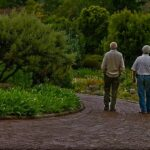
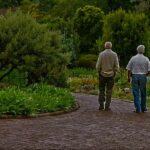
automatic push @ Sat May  8 00:30:02 UTC 2021

diff --git a/wp-content/uploads/elementor/css/post-2557.css b/wp-content/uploads/elementor/css/post-2557.css
@@ -1,1 +1,1 @@
-.elementor-2557 .elementor-element.elementor-element-a0b9288{text-align:center;}.elementor-2557 .elementor-element.elementor-element-a0b9288 .elementor-heading-title{color:#434343;font-family:"Roboto", Sans-serif;font-size:2.3rem;font-weight:600;}.elementor-2557 .elementor-element.elementor-element-5d45582 .elementor-spacer-inner{height:10px;}.elementor-2557 .elementor-element.elementor-element-51a4e14 > .elementor-container{min-height:450px;}.elementor-2557 .elementor-element.elementor-element-51a4e14:not(.elementor-motion-effects-element-type-background), .elementor-2557 .elementor-element.elementor-element-51a4e14 > .elementor-motion-effects-container > .elementor-motion-effects-layer{background-image:url("https://www.agedassist.tk/wp-content/uploads/2021/05/pexels-marcus-aurelius-6787218-1-scaled.jpg");background-position:0px 27px;background-repeat:no-repeat;background-size:cover;}.elementor-2557 .elementor-element.elementor-element-51a4e14 > .elementor-background-overlay{opacity:0.1;transition:background 0.3s, border-radius 0.3s, opacity 0.3s;}.elementor-2557 .elementor-element.elementor-element-51a4e14{transition:background 0.3s, border 0.3s, border-radius 0.3s, box-shadow 0.3s;}.elementor-2557 .elementor-element.elementor-element-ea847a7.elementor-column > .elementor-widget-wrap{justify-content:center;}.elementor-2557 .elementor-element.elementor-element-d035d52 .elementor-text-editor{text-align:left;}.elementor-2557 .elementor-element.elementor-element-d035d52{color:#FFFFFF;font-family:"Roboto", Sans-serif;font-size:1.4rem;font-weight:900;letter-spacing:0px;}@media(min-width:1025px){.elementor-2557 .elementor-element.elementor-element-51a4e14:not(.elementor-motion-effects-element-type-background), .elementor-2557 .elementor-element.elementor-element-51a4e14 > .elementor-motion-effects-container > .elementor-motion-effects-layer{background-attachment:fixed;}}@media(max-width:1024px){.elementor-2557 .elementor-element.elementor-element-51a4e14:not(.elementor-motion-effects-element-type-background), .elementor-2557 .elementor-element.elementor-element-51a4e14 > .elementor-motion-effects-container > .elementor-motion-effects-layer{background-position:0px 0px;}}@media(max-width:767px){.elementor-2557 .elementor-element.elementor-element-51a4e14:not(.elementor-motion-effects-element-type-background), .elementor-2557 .elementor-element.elementor-element-51a4e14 > .elementor-motion-effects-container > .elementor-motion-effects-layer{background-position:-538px 0px;}}
+.elementor-2557 .elementor-element.elementor-element-a0b9288{text-align:center;}.elementor-2557 .elementor-element.elementor-element-a0b9288 .elementor-heading-title{color:#434343;font-family:"Roboto", Sans-serif;font-size:2.3rem;font-weight:600;}.elementor-2557 .elementor-element.elementor-element-5d45582 .elementor-spacer-inner{height:10px;}.elementor-2557 .elementor-element.elementor-element-51a4e14 > .elementor-container{min-height:450px;}.elementor-2557 .elementor-element.elementor-element-51a4e14:not(.elementor-motion-effects-element-type-background), .elementor-2557 .elementor-element.elementor-element-51a4e14 > .elementor-motion-effects-container > .elementor-motion-effects-layer{background-image:url("https://www.agedassist.tk/wp-content/uploads/2021/05/pexels-marcus-aurelius-6787218-1-scaled.jpg");background-position:0px 27px;background-repeat:no-repeat;background-size:cover;}.elementor-2557 .elementor-element.elementor-element-51a4e14 > .elementor-background-overlay{opacity:0.1;transition:background 0.3s, border-radius 0.3s, opacity 0.3s;}.elementor-2557 .elementor-element.elementor-element-51a4e14{transition:background 0.3s, border 0.3s, border-radius 0.3s, box-shadow 0.3s;}.elementor-2557 .elementor-element.elementor-element-ea847a7.elementor-column > .elementor-widget-wrap{justify-content:center;}.elementor-2557 .elementor-element.elementor-element-d035d52 .elementor-text-editor{text-align:left;}.elementor-2557 .elementor-element.elementor-element-d035d52{color:#FFFFFF;font-family:"Roboto", Sans-serif;font-size:1.7rem;font-weight:900;letter-spacing:0px;}@media(min-width:1025px){.elementor-2557 .elementor-element.elementor-element-51a4e14:not(.elementor-motion-effects-element-type-background), .elementor-2557 .elementor-element.elementor-element-51a4e14 > .elementor-motion-effects-container > .elementor-motion-effects-layer{background-attachment:fixed;}}@media(max-width:1024px){.elementor-2557 .elementor-element.elementor-element-51a4e14:not(.elementor-motion-effects-element-type-background), .elementor-2557 .elementor-element.elementor-element-51a4e14 > .elementor-motion-effects-container > .elementor-motion-effects-layer{background-position:0px 0px;}}@media(max-width:767px){.elementor-2557 .elementor-element.elementor-element-51a4e14:not(.elementor-motion-effects-element-type-background), .elementor-2557 .elementor-element.elementor-element-51a4e14 > .elementor-motion-effects-container > .elementor-motion-effects-layer{background-position:-538px 0px;}}

diff --git a/wp-content/uploads/elementor/css/post-2786.css b/wp-content/uploads/elementor/css/post-2786.css
@@ -1,1 +1,1 @@
-.elementor-2786 .elementor-element.elementor-element-5b9595d{text-align:center;}.elementor-2786 .elementor-element.elementor-element-5b9595d .elementor-heading-title{color:#434343;font-family:"Roboto", Sans-serif;font-size:2.2rem;font-weight:600;}.elementor-2786 .elementor-element.elementor-element-98b6628 .elementor-spacer-inner{height:10px;}.elementor-2786 .elementor-element.elementor-element-8487bb8 > .elementor-container{min-height:450px;}.elementor-2786 .elementor-element.elementor-element-8487bb8:not(.elementor-motion-effects-element-type-background), .elementor-2786 .elementor-element.elementor-element-8487bb8 > .elementor-motion-effects-container > .elementor-motion-effects-layer{background-image:url("https://www.agedassist.tk/wp-content/uploads/2021/04/old-friends-555527_192012.jpg");background-position:0px -97px;background-repeat:no-repeat;background-size:100% auto;}.elementor-2786 .elementor-element.elementor-element-8487bb8{transition:background 0.3s, border 0.3s, border-radius 0.3s, box-shadow 0.3s;}.elementor-2786 .elementor-element.elementor-element-8487bb8 > .elementor-background-overlay{transition:background 0.3s, border-radius 0.3s, opacity 0.3s;}.elementor-2786 .elementor-element.elementor-element-ea4073b .elementor-text-editor{text-align:center;}.elementor-2786 .elementor-element.elementor-element-ea4073b{color:#FFFFFF;font-family:"Roboto", Sans-serif;font-size:1.4rem;font-weight:900;}@media(min-width:1025px){.elementor-2786 .elementor-element.elementor-element-8487bb8:not(.elementor-motion-effects-element-type-background), .elementor-2786 .elementor-element.elementor-element-8487bb8 > .elementor-motion-effects-container > .elementor-motion-effects-layer{background-attachment:scroll;}}@media(max-width:1024px){.elementor-2786 .elementor-element.elementor-element-8487bb8:not(.elementor-motion-effects-element-type-background), .elementor-2786 .elementor-element.elementor-element-8487bb8 > .elementor-motion-effects-container > .elementor-motion-effects-layer{background-image:url("https://www.agedassist.tk/wp-content/uploads/2021/04/old-friends-555527_192012.jpg");background-position:0px 0px;background-repeat:no-repeat;background-size:cover;}}@media(max-width:767px){.elementor-2786 .elementor-element.elementor-element-8487bb8:not(.elementor-motion-effects-element-type-background), .elementor-2786 .elementor-element.elementor-element-8487bb8 > .elementor-motion-effects-container > .elementor-motion-effects-layer{background-position:-734px 0px;background-repeat:no-repeat;background-size:cover;}}
+.elementor-2786 .elementor-element.elementor-element-5b9595d{text-align:center;}.elementor-2786 .elementor-element.elementor-element-5b9595d .elementor-heading-title{color:#434343;font-family:"Roboto", Sans-serif;font-size:2.2rem;font-weight:600;}.elementor-2786 .elementor-element.elementor-element-98b6628 .elementor-spacer-inner{height:10px;}.elementor-2786 .elementor-element.elementor-element-8487bb8 > .elementor-container{min-height:450px;}.elementor-2786 .elementor-element.elementor-element-8487bb8:not(.elementor-motion-effects-element-type-background), .elementor-2786 .elementor-element.elementor-element-8487bb8 > .elementor-motion-effects-container > .elementor-motion-effects-layer{background-image:url("https://www.agedassist.tk/wp-content/uploads/2021/05/old-friends-555527_1920-1.jpg");background-position:0px -221px;background-repeat:no-repeat;background-size:100% auto;}.elementor-2786 .elementor-element.elementor-element-8487bb8{transition:background 0.3s, border 0.3s, border-radius 0.3s, box-shadow 0.3s;}.elementor-2786 .elementor-element.elementor-element-8487bb8 > .elementor-background-overlay{transition:background 0.3s, border-radius 0.3s, opacity 0.3s;}.elementor-2786 .elementor-element.elementor-element-ea4073b{color:#FFFFFF;font-family:"Roboto", Sans-serif;font-size:1.7rem;font-weight:900;}@media(min-width:1025px){.elementor-2786 .elementor-element.elementor-element-8487bb8:not(.elementor-motion-effects-element-type-background), .elementor-2786 .elementor-element.elementor-element-8487bb8 > .elementor-motion-effects-container > .elementor-motion-effects-layer{background-attachment:scroll;}}@media(max-width:1024px){.elementor-2786 .elementor-element.elementor-element-8487bb8:not(.elementor-motion-effects-element-type-background), .elementor-2786 .elementor-element.elementor-element-8487bb8 > .elementor-motion-effects-container > .elementor-motion-effects-layer{background-image:url("https://www.agedassist.tk/wp-content/uploads/2021/04/old-friends-555527_192012.jpg");background-position:-248px 0px;background-repeat:no-repeat;background-size:cover;}}@media(max-width:767px){.elementor-2786 .elementor-element.elementor-element-8487bb8:not(.elementor-motion-effects-element-type-background), .elementor-2786 .elementor-element.elementor-element-8487bb8 > .elementor-motion-effects-container > .elementor-motion-effects-layer{background-position:-726px 0px;background-repeat:no-repeat;background-size:cover;}}
